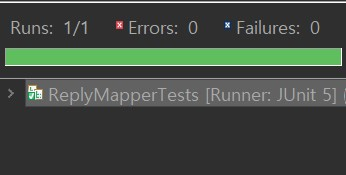
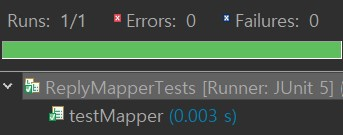
Checked CREATE   - 등록   - 데이터베이스 확인

diff --git a/src/test/java/org/zerock/mapper/ReplyMapperTests.java b/src/test/java/org/zerock/mapper/ReplyMapperTests.java
@@ -1,10 +1,13 @@
 package org.zerock.mapper;
 
+import java.util.stream.IntStream;
+
 import org.junit.Test;
 import org.junit.runner.RunWith;
 import org.springframework.beans.factory.annotation.Autowired;
 import org.springframework.test.context.ContextConfiguration;
 import org.springframework.test.context.junit4.SpringRunner;
+import org.zerock.domain.ReplyVO;
 
 import lombok.extern.log4j.Log4j;
 
@@ -15,8 +18,25 @@ import lombok.extern.log4j.Log4j;
 // @ContextConfiguration(classes = {org.zerock.config.RootConfig.class})
 @Log4j
 public class ReplyMapperTests {
+	//테스트 전에 해당 번호의 게시물이 존재하는지 반드시 확인할 것
+	private Long[] bnoArr = { 3L, 2L, 1L };
+	
 	@Autowired
 	private ReplyMapper mapper;
+	
+	@Test
+	public void testCreate() {
+		IntStream.rangeClosed(1, 10).forEach(i -> {
+			ReplyVO vo = new ReplyVO();
+			
+			// 게시물 번호
+			vo.setBno(bnoArr[i % 3]);
+			vo.setReply("댓글 테스트 " + i);
+			vo.setReplyer("replyer" + i);
+			
+			mapper.insert(vo);
+		});
+	}
 	
 	@Test 
 	public void testMapper() {

diff --git a/src/main/java/org/zerock/mapper/ReplyMapper.java b/src/main/java/org/zerock/mapper/ReplyMapper.java
@@ -1,5 +1,7 @@
 package org.zerock.mapper;
 
-public interface ReplyMapper {
+import org.zerock.domain.ReplyVO;
 
+public interface ReplyMapper {
+	public int insert(ReplyVO vo);
 }

diff --git a/README.md b/README.md
@@ -33,7 +33,7 @@ database<br>
 - tbl_reply가 tbl_board 테이블의 bno 값과 정확히 일치해야 하므로 테스트 진행 전 최신 bno 번호 몇 개를 예제로 확인
 <img src="img/database_select.jpg" width="450" height="100">
 ```
-SELECT * FROM tbl_board WHERE rownum < 10 ORDER BY bno desc
+SELECT * FROM tbl_board WHERE rownum < 10 ORDER BY bno DESC;
 ```
 
 ---
@@ -44,9 +44,17 @@ SELECT * FROM tbl_board WHERE rownum < 10 ORDER BY bno desc
         - ReplyMapperTests : testMapper()를 통해서 ReplyMapper 타입의 객체가 정상적으로 사용이 가능한지 확인<br>
 <img src="img/JUnit_testMapper.jpg" width="200" height="100">
 
+---
 
+#### CRUD 작업
+#### ◾ **등록(create)** 
+- TEST(게시물 번호의 일부로 실제 데이터베이스에 있는 번호 확인(PK - FK))<br>
+<img src="img/JUnit_testCreate.jpg" width="200" height="100">
+- tbl_reply의 상태 확인<br>
+<img src="img/database_select_check.jpg" width="400" height="200">
 
 ```
-
+SELECT * FROM tbl_reply ORDER BY rno DESC;
 ```
 
+---
